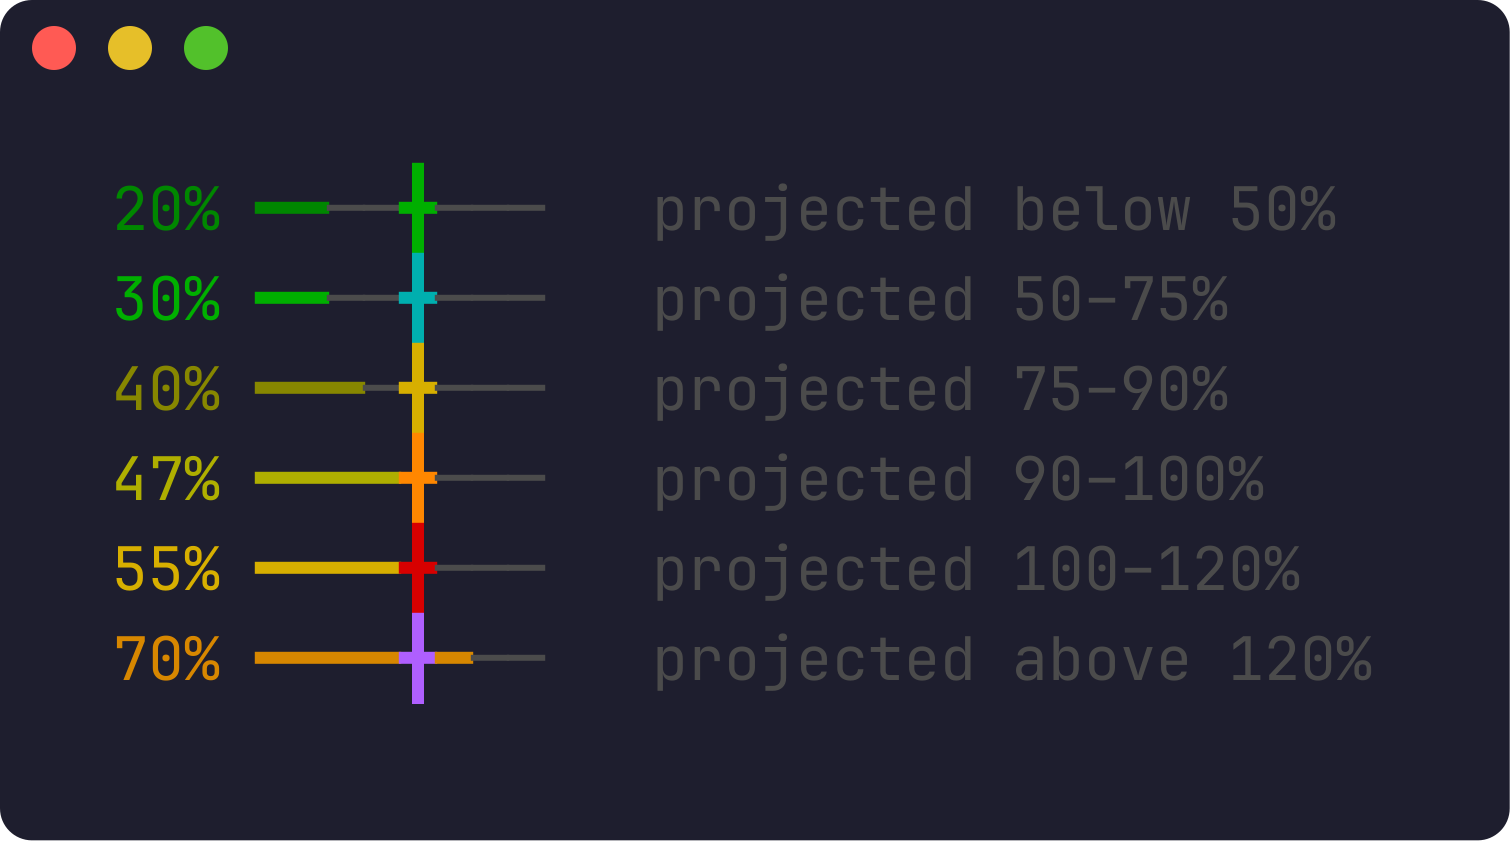
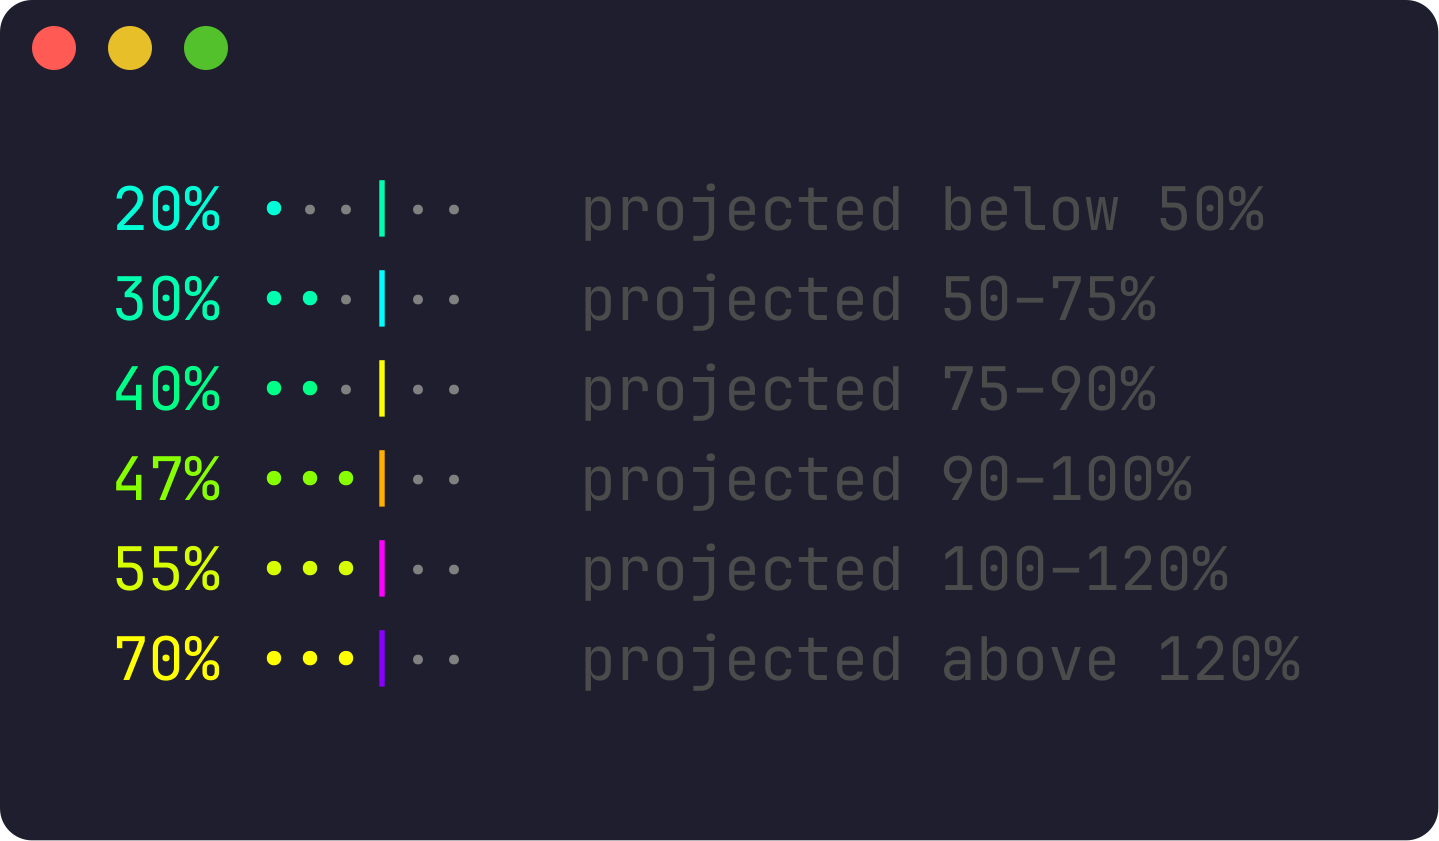
docs(media): draw the README's pictures in dots and the neon theme
scripts/media.sh now draws the hero too: the owner's rows under a
Claude Code prompt, with labels, every bar in dots and the neon theme.
The hero and the themes picture run in a repository of their own on
main, so they do not show the branch the script runs on.

The pace picture, the demo GIF's installed setup and the themes picture
use dots and neon as well. The GIF picks dracula after neon and goes
back to neon. The wordmark pictures show the new D. The README's alt
text says what each picture now shows.

Claude-Session: https://claude.ai/code/session_01H9P8oKGUXgpzVnd6cKMmdW

diff --git a/README.md b/README.md
@@ -6,7 +6,7 @@
 </h1>
 
 <div align="center">
-  <img src="https://raw.githubusercontent.com/jv-k/claude-gauge/main/docs/media/hero.png" alt="The bottom of a Claude Code session: the prompt, and under it the claude-gauge status line with context, 5-hour and weekly usage bars, then the time, session length, repository, branch, model and effort.">
+  <img src="https://raw.githubusercontent.com/jv-k/claude-gauge/main/docs/media/hero.png" alt="The bottom of a Claude Code session in the neon theme: the prompt, and under it two claude-gauge rows. The first has the context, 5-hour, 7-day and memory bars, each drawn in dots with its label. The second has the time, session length, repository, branch, model, effort, thinking, fast mode, spend limit and today's spend.">
   <p>
     <a href="https://www.npmjs.com/package/@jv-k/claude-gauge"><img src="https://img.shields.io/npm/v/%40jv-k%2Fclaude-gauge" alt="npm version"></a>
     <a href="https://github.com/jv-k/claude-gauge/actions/workflows/test.yml"><img src="https://github.com/jv-k/claude-gauge/actions/workflows/test.yml/badge.svg" alt="Test status"></a>
@@ -77,7 +77,7 @@ npx @jv-k/claude-gauge setup
 
 Setup shows the status line and asks which parts you want. In a terminal, each question is a choice. Use the arrow keys to move and Enter to accept. One question shows every row, each with its parts side by side and `+` after them. Use ← and → to move along a row, Tab and Shift+Tab to change row, and ↑ and ↓ to change the part there to another one. On `+`, ↑ and ↓ add a part. Shift with ← or → moves a part along its row, and Shift with ↑ or ↓ moves it to the row above or below. Space, then the arrow keys, then Space does the same. d or Backspace removes a part. The token line's parts work the same way, in one row. With two or more rows, you put the rows in order: select a row with ↑ and ↓, and press Tab to push it down or Shift+Tab to push it up. The status line redraws as the selection moves, before you accept it. While you edit a row, the preview marks that row with `❯` and the part at the cursor with `[ ]`. Press Esc to go back: setup lists the steps you answered, and you pick one to change. The answers after it stay. When you type the answers, as through a pipe, answer `<` to see that list. Ctrl+C stops setup and changes nothing:
 
-![claude-gauge setup in a terminal: it shows the claude-gauge wordmark and the lines as set up, then changes them. In the first row it moves ram to the front and adds cost with the + place, and in the second it removes today with Backspace. It picks the pastel theme, then presses Esc at the last question, goes back to the theme, takes high-contrast again, and ends with the settings it wrote.](https://raw.githubusercontent.com/jv-k/claude-gauge/main/docs/media/demo.gif)
+![claude-gauge setup in a terminal: it shows the claude-gauge wordmark and the lines as set up, then changes them. In the first row it moves ram to the front and adds cost with the + place, and in the second it removes today with Backspace. It picks the dracula theme, then presses Esc at the last question, goes back to the theme, takes neon again, and ends with the settings it wrote.](https://raw.githubusercontent.com/jv-k/claude-gauge/main/docs/media/demo.gif)
 
 ### VS Code and the desktop app
 
@@ -149,7 +149,7 @@ The status line shows these parts by default:
 
 The pace marker `┃` shows how much of the window has passed. If the marker is ahead of the filled cells, you use less than an even pace. Its colour shows the usage that the current pace gives at the end of the window:
 
-![The 5-hour bar six times, in the hairline style, half-way through the window. The pace marker is green below 50% projected usage, teal to 75%, yellow to 90%, orange to 100%, red to 120% and purple above 120%.](https://raw.githubusercontent.com/jv-k/claude-gauge/main/docs/media/pace.png)
+![The 5-hour bar six times, in the dots style and the neon theme, half-way through the window. The pace marker is green below 50% projected usage, cyan to 75%, yellow to 90%, orange to 100%, magenta to 120% and violet above 120%.](https://raw.githubusercontent.com/jv-k/claude-gauge/main/docs/media/pace.png)
 
 Red means that you will reach the limit a short time before the window resets. Purple means that you will reach it much earlier. In the first minutes of a window, the marker takes the colour of its bar, because the projection is not yet reliable.
 
@@ -178,7 +178,7 @@ Opus 5.5 │ effort high │ $1.23 │ cache 91% warm
 
 Each `--show` is one row. `--theme` picks one of thirteen themes, among them the Dracula, One Dark, Solarized Dark, Monokai and Nord schemes:
 
-![Two status line rows, with the context, 5-hour, 7-day and memory bars in their own styles and no labels, in each of the thirteen themes: default, pastel, high-contrast, mono, ocean, forest, sunset, neon, dracula, one-dark, solarized-dark, monokai and nord.](https://raw.githubusercontent.com/jv-k/claude-gauge/main/docs/media/themes.png)
+![Two status line rows, with the context, 5-hour, 7-day and memory bars in dots and no labels, in each of the thirteen themes: default, pastel, high-contrast, mono, ocean, forest, sunset, neon, dracula, one-dark, solarized-dark, monokai and nord.](https://raw.githubusercontent.com/jv-k/claude-gauge/main/docs/media/themes.png)
 
 `--bar-style` draws every bar another way, on both lines. `--bar-style steps` gives `5h 9% ▅▁▁▁▁▁ → 14:10`, and `--bar-style hairline` gives `5h 9% ━────╋── → 14:10`. There are seven styles; setup shows each one moving before you choose. A bar can also have its own: `--bar-style steps,ctx=rising` draws `ctx` in `rising` and the other bars in `steps`.
 
